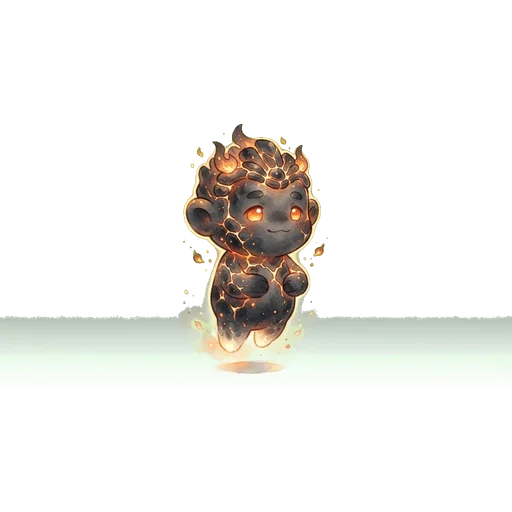
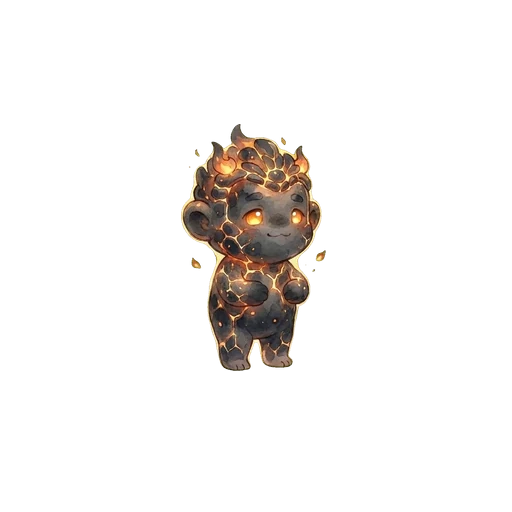
feat: ⑦ 화풍 확산 — 15테마 벽·바닥·그늘 판·대제단 + 신물 53종 + 마이그레이션 2건(미적용)
- 15테마(반가 제외 틀 테마 전부): room-{wall,floor}-mural-p7-v3(+sd) · room-floor-shade-p7-v3(+sd) ·
  grand-altar-p7. 현행 v3 와 같은 치수·수평선, 제단은 v2 와 같은 세로 배치(랜드마크 4줄 검수판 통과).
  재생성 3건(choga 금줄·호리병 · dangsan 회녹색 이끼 · saemgut 민트빛 벽)은 «보존 사실» 한 줄로 갚았다.
- 신물: items/*-p7.webp 51장 + 기본 촛불·향로 무대 소품 prop-{candle,incense}-p7 — 종이 받침을 걷고
  ⑦ 붓으로, 원본 캔버스·자리 그대로(캔버스 치수 동일을 테스트가 강제).
- 수호신 「숯불」: 다리 뒤를 가로지르던 반투명 흰 띠(키잉 실패 잔재)를 걷은 스프라이트로 제자리 수복.
  다른 수호신 31종은 신위와 같은 수채 치비라 그대로 둔다.
- 20260923b_themes_painted_p7: 테마마다 zones[0] 자산 URL 네 자리 · 1구역·grand-altar-{code} 가드 · 되돌리기 동봉.
- 20260923c_items_painted_p7: sprite_url(+같던 image_url) → -p7 · 무대 소품 asset_url → -p7 · 되돌리기 동봉.
- 계약 테스트: 테마별 네 자리·실재 파일·sd 형제·가드, 신물 전수·캔버스 치수 동일·수호신 불변.

Changed region(s): [[0.0, 0.25, 1.0, 0.75]]

diff --git a/lib/domain/shrine/__tests__/theme-stage.test.ts b/lib/domain/shrine/__tests__/theme-stage.test.ts
@@ -24,7 +24,7 @@
  */
 
 import { execFileSync } from 'node:child_process'
-import { existsSync, readFileSync, statSync } from 'node:fs'
+import { existsSync, readdirSync, readFileSync, statSync } from 'node:fs'
 import path from 'node:path'
 
 import { EL_COLOR, ELEMENTS } from '../energy'
@@ -1051,5 +1051,98 @@ describe('20260923 반가 ⑦ 마이그레이션', () => {
     const stage = zoneStage(daecheongZone(world), base)
     expect(stage.floorShadeUrl).toBe('/shrine/stage/banga/room-floor-shade-p7-v3.webp')
     expect(stage.structures[0]?.assetUrl).toBe('/shrine/stage/banga/grand-altar-p7.webp')
+  })
+})
+
+describe('20260923b ⑦ 15테마 확산 마이그레이션', () => {
+  const sql = readFileSync(path.join(ROOT, 'supabase', 'migrations', '20260923b_themes_painted_p7.sql'), 'utf8')
+  const statements = sql
+    .split('\n')
+    .filter((l) => !l.trimStart().startsWith('--'))
+    .join('\n')
+    .split(';')
+    .map((s) => s.trim())
+    .filter(Boolean)
+  const REST = GRAND_ALTAR_THEMES.filter((c) => c !== 'banga')
+  const statementOf = (code: string): string => {
+    const found = statements.filter((s) => s.includes(`where code = '${code}'`))
+    expect(found).toHaveLength(1)
+    return found[0] ?? ''
+  }
+
+  it('반가를 뺀 틀 테마 전부를 한 번씩 — 빠진 테마도, 두 번 쓰는 테마도 없다', () => {
+    const codes = statements.map((s) => /where code = '([a-z]+)'/.exec(s)?.[1] ?? '')
+    expect([...codes].sort()).toEqual([...REST].sort())
+  })
+
+  it.each(REST)('%s — 대청 구역 자산 네 자리만, 제 테마 폴더의 실재 파일로, 제 틀 가드로', (code) => {
+    const stmt = statementOf(code)
+    expect([...stmt.matchAll(/'\{zones,0,([^}]+)\}', to_jsonb/g)].map((m) => m[1]).sort()).toEqual(
+      ['floorShadeUrl', 'flooringUrl', 'structures,0,assetUrl', 'wallpaperUrl'].sort()
+    )
+    const urls = [...stmt.matchAll(/'(\/shrine\/stage\/[^']+)'::text/g)].map((m) => m[1] ?? '')
+    expect(urls).toHaveLength(4)
+    for (const url of urls) {
+      expect(url.startsWith(`/shrine/stage/${code}/`)).toBe(true)
+      expect([url, existsSync(path.join(ROOT, 'public', url))]).toEqual([url, true])
+      if (url.endsWith('-v3.webp')) {
+        const sd = url.replace(/-v3\.webp$/, '-v3-sd.webp')
+        expect([sd, existsSync(path.join(ROOT, 'public', sd))]).toEqual([sd, true])
+      }
+    }
+    expect(stmt).toMatch(/jsonb_array_length\(coalesce\(stage -> 'zones', '\[\]'::jsonb\)\) = 1/)
+    expect(stmt).toContain(`stage #>> '{zones,0,structures,0,code}' = 'grand-altar-${code}'`)
+  })
+
+  it('되돌리기 SQL 이 15테마를 현행 v3·v2 자산으로 돌리고 그늘 판을 뗀다(원복 레버)', () => {
+    expect(sql).toContain("stage #- '{zones,0,floorShadeUrl}'")
+    expect(sql).toContain("'/shrine/stage/' || code || '/room-wall-mural-v3.webp'")
+    expect(sql).toContain("'/shrine/stage/' || code || '/room-floor-mural-v3.webp'")
+    expect(sql).toContain("'/shrine/stage/' || code || '/grand-altar-v2.webp'")
+    for (const code of REST) expect(sql).toContain(`'${code}'`)
+  })
+})
+
+describe('20260923c ⑦ 신물 마이그레이션', () => {
+  const sql = readFileSync(path.join(ROOT, 'supabase', 'migrations', '20260923c_items_painted_p7.sql'), 'utf8')
+  const body = sql
+    .split('\n')
+    .filter((l) => !l.trimStart().startsWith('--'))
+    .join('\n')
+  const listed = [...body.matchAll(/'(\/shrine\/items\/[a-z0-9-]+\.webp)'/g)].map((m) => m[1] ?? '')
+  const itemDir = path.join(ROOT, 'public', 'shrine', 'items')
+
+  it('items 폴더의 원본 스프라이트 전부를 한 번씩 — ⑦ 형제가 없는 원본은 없다', () => {
+    const originals = readdirSync(itemDir)
+      .filter((f) => f.endsWith('.webp') && !f.endsWith('-p7.webp'))
+      .map((f) => `/shrine/items/${f}`)
+    expect([...listed].sort()).toEqual(originals.sort())
+    for (const url of listed) {
+      const p7 = url.replace(/\.webp$/, '-p7.webp')
+      expect([p7, existsSync(path.join(ROOT, 'public', p7))]).toEqual([p7, true])
+    }
+  })
+
+  it('⑦ 스프라이트는 원본과 캔버스 치수가 같다 — 배치 좌표·표시 크기 규격이 그대로다', async () => {
+    const sharp = (await import('sharp')).default
+    for (const url of listed) {
+      const a = await sharp(path.join(ROOT, 'public', url)).metadata()
+      const b = await sharp(path.join(ROOT, 'public', url.replace(/\.webp$/, '-p7.webp'))).metadata()
+      expect([url, b.width, b.height]).toEqual([url, a.width, a.height])
+    }
+  })
+
+  it('기본 촛불·향로의 무대 소품만 asset_url 을 바꾼다 — 레거시·v2 크기 판정(asset≠sprite)이 유지된다', () => {
+    const props = [...body.matchAll(/'(\/shrine\/stage\/banga\/prop-[a-z]+\.webp)'/g)].map((m) => m[1] ?? '')
+    expect(props.sort()).toEqual(['/shrine/stage/banga/prop-candle.webp', '/shrine/stage/banga/prop-incense.webp'])
+    for (const url of props)
+      expect(existsSync(path.join(ROOT, 'public', url.replace(/\.webp$/, '-p7.webp')))).toBe(true)
+    expect(body).not.toMatch(/\/shrine\/guardians\//)
+  })
+
+  it('image_url 은 sprite_url 과 같던 행만 따라간다 · 되돌리기 SQL 동봉', () => {
+    expect(body).toContain("image_url = case when image_url = sprite_url then replace(image_url, '.webp', '-p7.webp')")
+    expect(sql).toContain("replace(sprite_url, '-p7.webp', '.webp')")
+    expect(sql).toContain("replace(asset_url, '-p7.webp', '.webp')")
   })
 })
